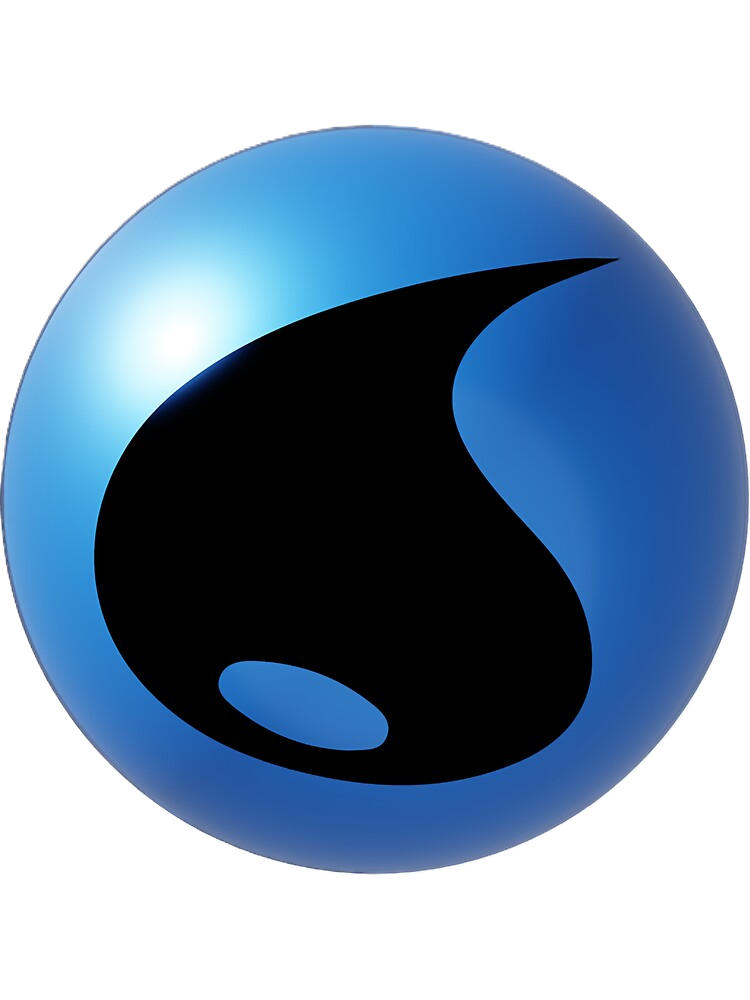
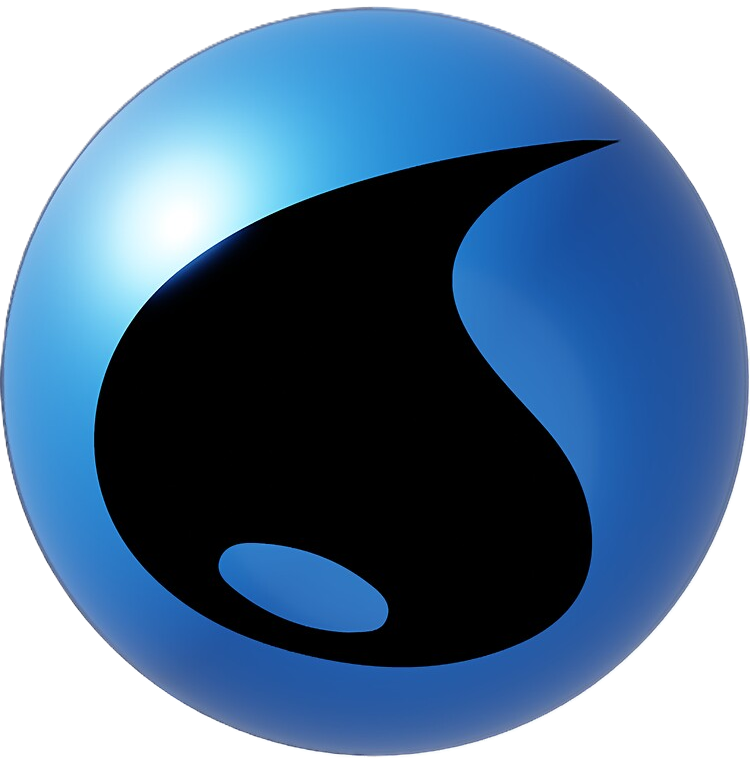
Added deck selection (only two test decks so far), crunched up space on screen a bit to fit smaller windows, resized water energy image, added water energy to loading randomizer

diff --git a/src/Game.jsx b/src/Game.jsx
@@ -8,7 +8,7 @@ import ConfirmationDialog from './ConfirmationDialog.jsx';
 import './App.css';
 import baseset from './data/baseset.json';
 
-const Game = ({gameStateCallback}) => {
+const Game = ({deckNumber, gameStateCallback}) => {
   const gameGuid = useRef(null);
   const mulligans = useRef(0);
   const [hand, setHand] = useState([]);
@@ -207,7 +207,7 @@ const Game = ({gameStateCallback}) => {
   // on page load
   useEffect(() => {
     if (!gameGuid.current) {
-        fetch('https://pokeserver20251017181703-ace0bbard6a0cfas.canadacentral-01.azurewebsites.net/game/getnewgame/1')
+        fetch(`https://pokeserver20251017181703-ace0bbard6a0cfas.canadacentral-01.azurewebsites.net/game/getnewgame/${deckNumber}`)
         .then(response => response.json())
         .then(data => {
             console.log('set game start');
@@ -233,9 +233,9 @@ const Game = ({gameStateCallback}) => {
     {!gameGuid.current && <Loading />}
     {gameGuid.current &&
     <div>
-      <div style={{position: 'absolute', left: '700px', width: '200px'}}>active card = {active && active.name}</div>
-      <div style={{position: 'absolute', top: '50px', left: '700px', width: '200px'}}># cards in hand = {hand && hand.length}</div>
-      <div style={{position: 'absolute', top: '100px', left: '700px', width: '200px'}}># cards in bench = {bench && bench.length}</div>
+      <div style={{position: 'absolute', top: '50px', left: '700px', width: '200px'}}>active card = {active && active.name}</div>
+      <div style={{position: 'absolute', top: '100px', left: '700px', width: '200px'}}># cards in hand = {hand && hand.length}</div>
+      <div style={{position: 'absolute', top: '150px', left: '700px', width: '200px'}}># cards in bench = {bench && bench.length}</div>
       <button onClick={getCoinFlip} id="flip-coin-button">flip coin</button>
       <button onClick={drawTopCard} id="draw-card-button">draw</button>
       <button onClick={endGame} id="end-game-button">end game</button>

diff --git a/src/App.css b/src/App.css
@@ -53,38 +53,38 @@
 }
 
 #user-active {
-  top: 100px;
-  left: 500px;
+  top: 50px;
+  left: 550px;
   background-color: rgba(200, 10, 10, 0.5);
 }
 
 #user-bench-1 {
-  top: 400px;
-  left: 200px;
+  top: 250px;
+  left: 250px;
   background-color: rgba(170, 220, 230, 0.5);
 }
 
 #user-bench-2 {
-  top: 400px;
-  left: 350px;
+  top: 250px;
+  left: 400px;
   background-color: rgba(170, 220, 230, 0.5);
 }
 
 #user-bench-3 {
-  top: 400px;
-  left: 500px;
+  top: 250px;
+  left: 550px;
   background-color: rgba(170, 220, 230, 0.5);
 }
 
 #user-bench-4 {
-  top: 400px;
-  left: 650px;
+  top: 250px;
+  left: 700px;
   background-color: rgba(170, 220, 230, 0.5);
 }
 
 #user-bench-5 {
-  top: 400px;
-  left: 800px;
+  top: 250px;
+  left: 850px;
   background-color: rgba(170, 220, 230, 0.5);
 }
 
@@ -104,7 +104,7 @@
 
 #hand-area {
   position:absolute;
-  top: 600px;
+  top: 450px;
   left: 420px;
   width: 200px;
   height: 140px;
@@ -113,24 +113,24 @@
 
 #draw-card-button {
   position: absolute;
-  top: 180px; 
-  left: 700px;
+  top: 50px; 
+  left: 1000px;
   width: 120px;
   background-color: rgba(20, 20, 20, 0.7);
 }
 
 #flip-coin-button {
   position: absolute;
-  top: 240px;
-  left: 700px;
+  top: 100px;
+  left: 1000px;
   width: 120px;
   background-color: rgba(20, 20, 20, 0.7);
 }
 
 #end-game-button {
   position: absolute;
-  top: 300px; 
-  left: 700px;
+  top: 150px; 
+  left: 1000px;
   width: 120px;
   background-color: rgba(200, 10, 10, 0.7);
 }

diff --git a/src/App.jsx b/src/App.jsx
@@ -5,6 +5,7 @@ import './App.css';
 import baseset from './data/baseset.json';
 
 const App = () => {
+  const [deckNum, setDeckNum] = useState("0");
   const [gameStarted, setGameStarted] = useState(false);
   const [gameEnded, setGameEnded] = useState(false);
   const [coinResult, setCoinResult] = useState(null);
@@ -33,11 +34,24 @@ const App = () => {
     }
   }
 
+  function handleDeckNumChange(event) {
+    setDeckNum(event.target.value);
+  }
+
   return (
     <>
-      {!gameStarted && <button onClick={startGame}>Start game</button>}
+      {!gameStarted && 
+        <div>
+          <input type="radio" id="haymaker" value="0" checked={deckNum == "0"} onChange={handleDeckNumChange} />
+          <label for="haymaker">Haymaker</label>
+          <input type="radio" id="raindance" value="1" checked={deckNum == "1"} onChange={handleDeckNumChange} />
+          <label for="raindance">Rain Dance</label>
+          <br />
+          <br />
+          <button onClick={startGame}>Start game</button>
+        </div>}
       {coinResult != null && !gameStarted && <CoinFlip isHeads={coinResult} />}
-      {gameStarted && !gameEnded && <Game gameStateCallback={gameStateCallback} />}
+      {gameStarted && !gameEnded && <Game deckNumber={deckNum} gameStateCallback={gameStateCallback} />}
       {gameEnded && <h1>Game over</h1>}
     </>
   );

diff --git a/src/Card.jsx b/src/Card.jsx
@@ -18,14 +18,14 @@ const Card = ({data, startOffset, positionCallback}) => {
   Modal.setAppElement('#root');
   const [backgroundImage, setBackgroundImage] = useValue(urlstring);
   const targets = [
-    { left: 480, top: 620, position: -1}, // hand
-    { left: 580, top: 620, position: -1}, // extend hand area right
-    { left: 550, top: 165, position: 0 }, // active
-    { left: 250, top: 465, position: 1 }, // bench 1
-    { left: 400, top: 465, position: 2 }, // bench 2
-    { left: 550, top: 465, position: 3 }, // bench 3
-    { left: 700, top: 465, position: 4 }, // bench 4
-    { left: 850, top: 465, position: 5 }, // bench 5
+    { left: 480, top: 470, position: -1}, // hand
+    { left: 580, top: 470, position: -1}, // extend hand area right
+    { left: 600, top: 115, position: 0 }, // active
+    { left: 300, top: 315, position: 1 }, // bench 1
+    { left: 450, top: 315, position: 2 }, // bench 2
+    { left: 600, top: 315, position: 3 }, // bench 3
+    { left: 750, top: 315, position: 4 }, // bench 4
+    { left: 900, top: 315, position: 5 }, // bench 5
     { left: 1100, top: 485, position: 6 }, // discard
   ];
   

diff --git a/src/Loading.jsx b/src/Loading.jsx
@@ -4,7 +4,7 @@ import './App.css';
 
 const Loading = () => {
   const [obj, setObj] = useValue({ x: 0, y: 0, width: 100, height: 100 });
-  const energyImages = ['/Fighting.png', '/Lightning.png', '/Colorless.png'];
+  const energyImages = ['/Fighting.png', '/Lightning.png', '/Water.png', '/Colorless.png'];
 
   let index = Math.floor(Math.random() * energyImages.length);
   let url = energyImages[index];
